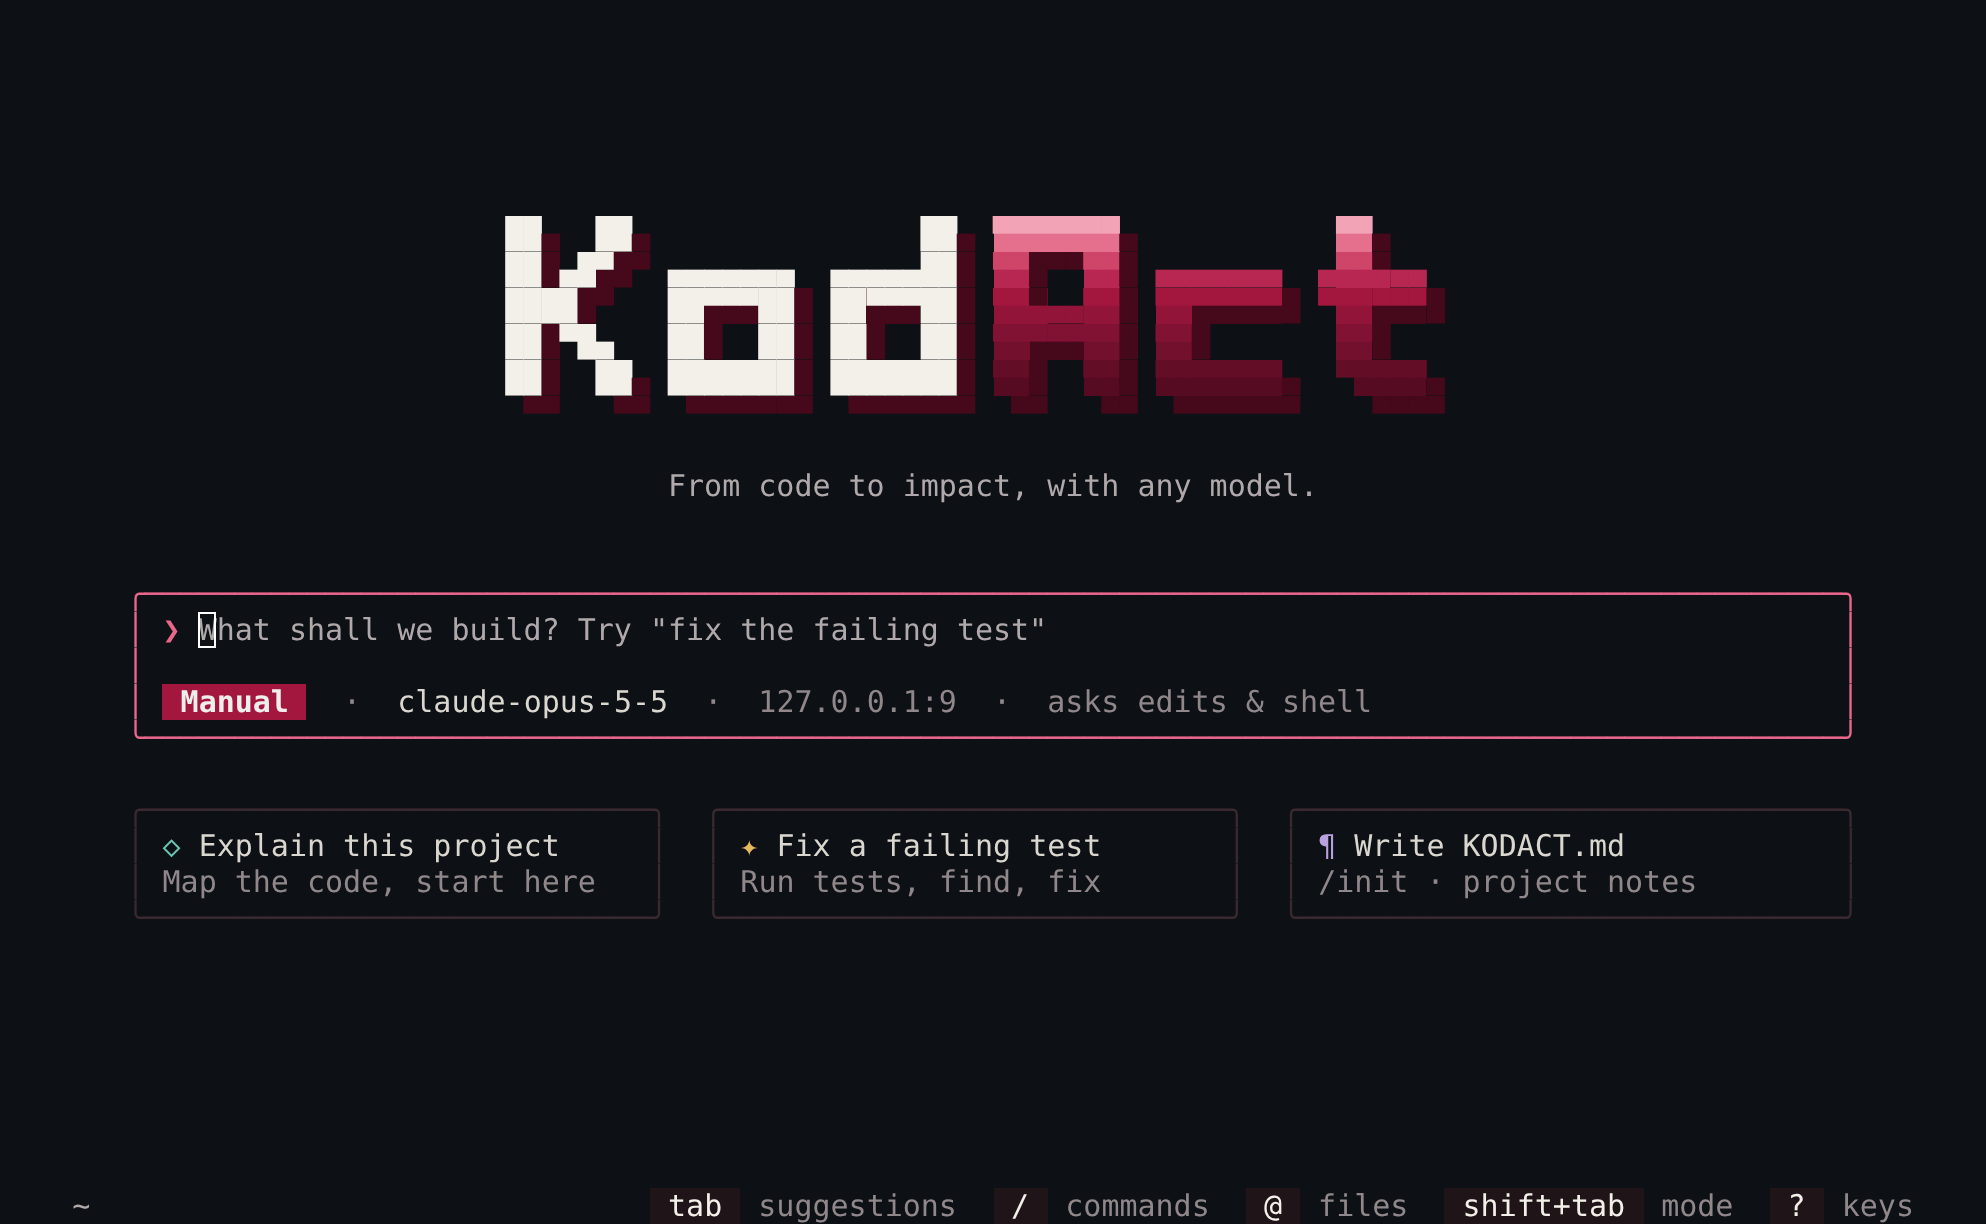
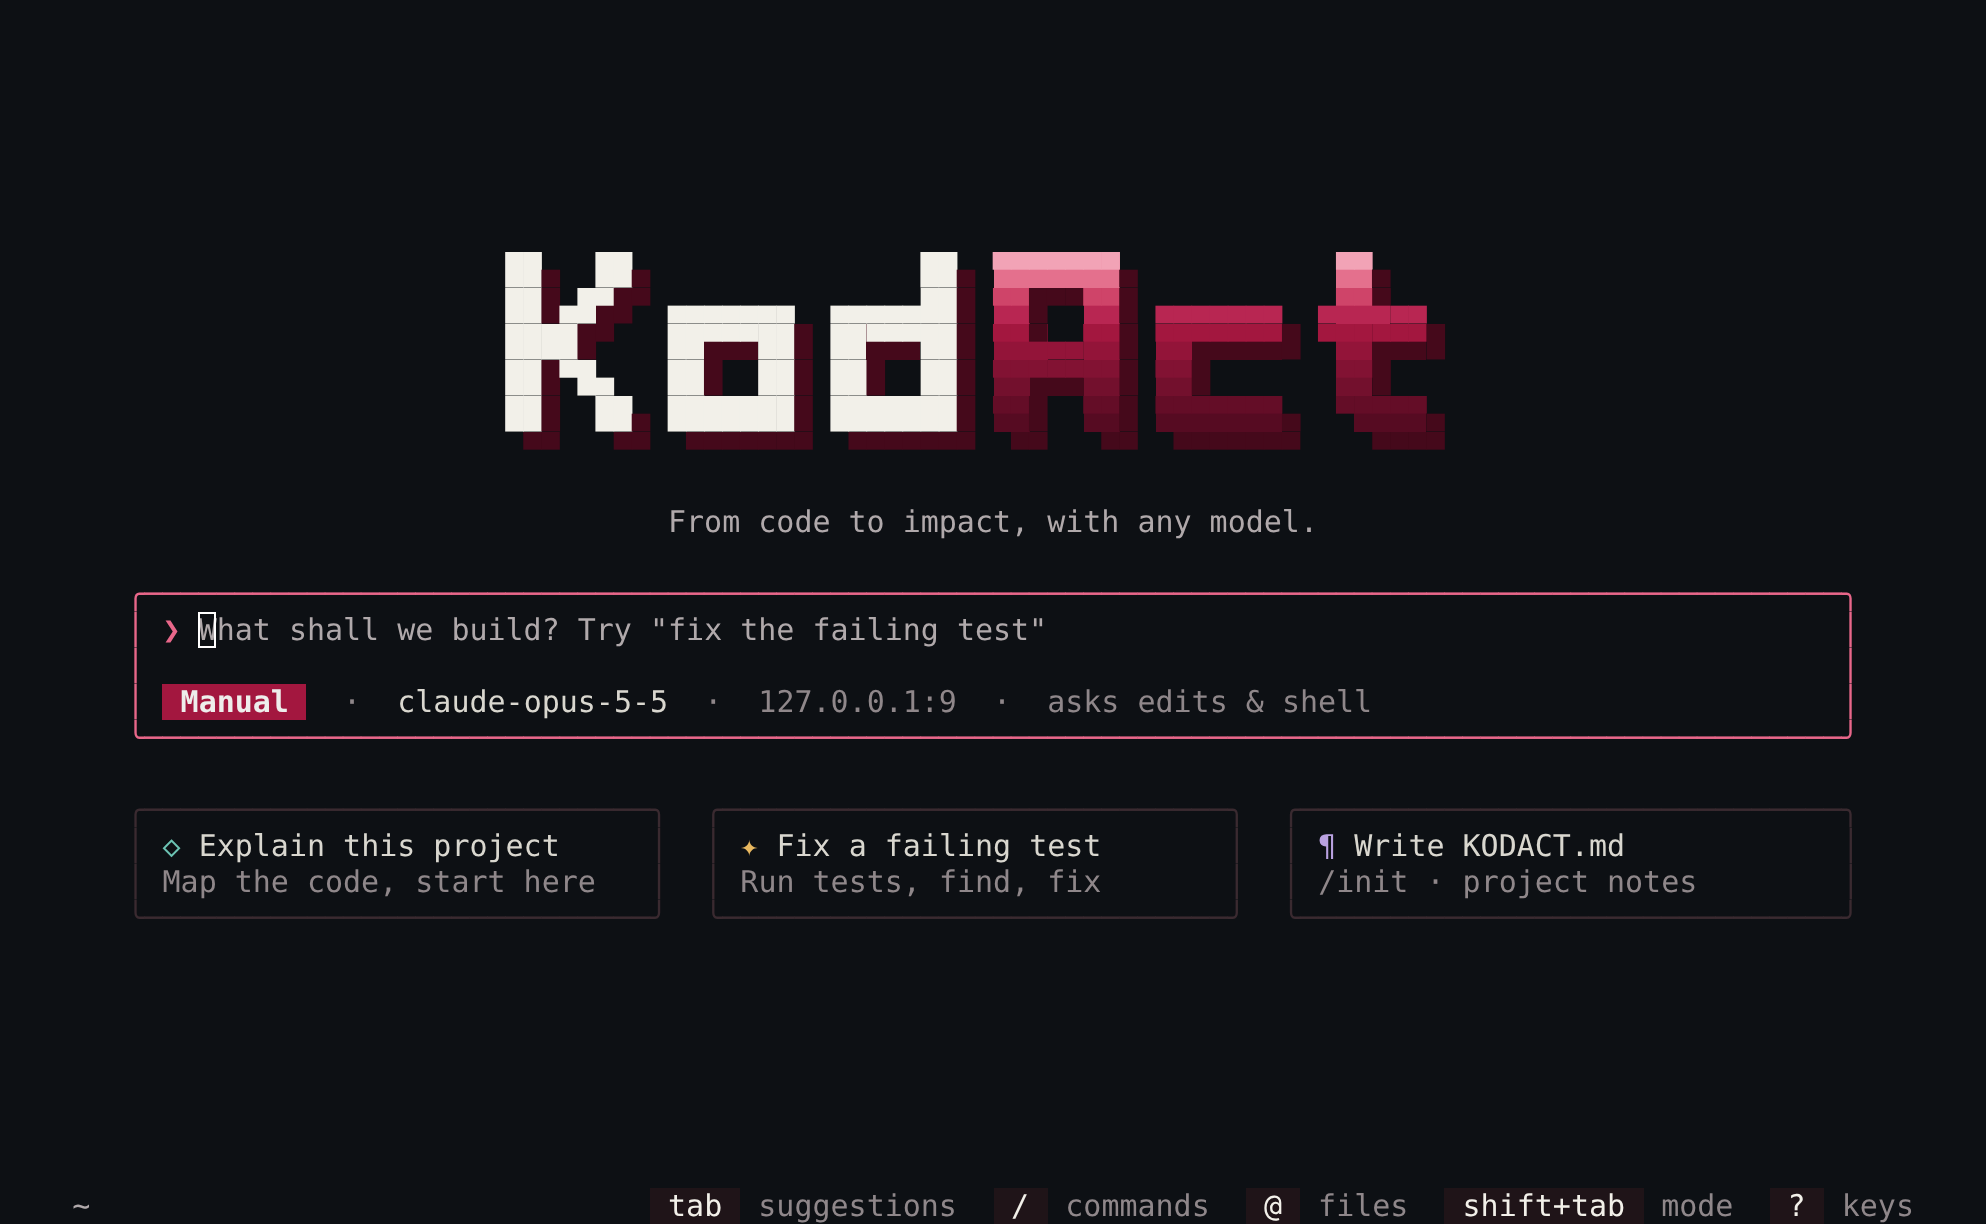
Welcome page: one row of air over the prompt box; the cards' hint on the first frame
The tagline sat two blank rows above the prompt box but the cards one row
under it, so the title read as detached from the box. Now one row each way,
and the name, the box and the cards read as one block.

The status line's "tab suggestions" hint was built before the layout decided
whether the cards fit, so it showed only from the second frame (on launch,
not until something redrew). The status line is now rebuilt when that
decision changes. Test: the first frame both draws the cards and offers
them; a screen too short for them does neither.

Goals: compatibility / none (UI); welcome page spacing and hint

Claude-Session: https://claude.ai/code/session_01XjPJN78SFVEmKsSDw2V2Fw

Changed region(s): [[0.2497, 0.1552, 0.7492, 0.4346]]

diff --git a/crates/kodact-cli/src/tui/render.rs b/crates/kodact-cli/src/tui/render.rs
@@ -405,7 +405,9 @@ pub fn full_view_at(
     now: Instant,
 ) -> (LiveView, usize) {
     let h = (height as usize).max(1);
-    app.cards_drawn.set(false);
+    // Whether the last frame drew the cards: the status line below is built with it, and built
+    // again if this frame decides otherwise, so its "tab suggestions" hint never lags a frame.
+    let cards_before = app.cards_drawn.get();
     // The front page has room for a note or two under it (a warning at start, the answer
     // to /clear). An answer longer than that takes the page's place: `?` or /status on
     // the front page showed only its last six rows, or none on a short window.
@@ -416,7 +418,8 @@ pub fn full_view_at(
         let fb = FrontBox { left: page.box_left, w: page.box_w, under: page.under };
         let live = live_view_inner(app, width, height, now, Some(fb));
         let mut input = live.lines;
-        let status = input.pop().unwrap_or_default();
+        let mut status = input.pop().unwrap_or_default();
+        app.cards_drawn.set(false);
         let room = h.saturating_sub(1);
         // Each row in `rows` starts with `TRANSCRIPT_INDENT` (2 spaces), which lines its
         // `❯` up with a boxed input's `│ ❯` when the box starts at column 0. On the front
@@ -523,10 +526,14 @@ pub fn full_view_at(
         }
         out.truncate(room);
         out.resize(room, Line::default());
+        if app.cards_drawn.get() != cards_before {
+            status = live_view_inner(app, width, height, now, Some(fb)).lines.pop().unwrap_or_default();
+        }
         out.push(status);
         let cursor = live.cursor.map(|(x, y)| (x, y + box_at as u16)).filter(|(_, y)| (*y as usize) < room);
         return (LiveView { lines: out, cursor }, 0);
     }
+    app.cards_drawn.set(false);
     let live = live_view_at(app, width, height, now);
     // The status style: a bar of the session's readouts across the top.
     let bar: Vec<Line<'static>> =
@@ -2778,6 +2785,22 @@ mod tests {
         // Degenerate narrow terminal never panics or exceeds w.
         let tiny = cornered(Line::from("Title"), vec![Line::from("Body")], 3, a.theme.accent(), a.theme.hairline());
         assert!(tiny.iter().all(|l| text_width(&text::plain(l)) <= 3));
+    }
+
+    #[test]
+    fn the_first_frame_offers_the_cards_it_draws() {
+        let mut a = app(false);
+        a.look = crate::tui::look::Look::Frame;
+        a.front = true;
+        let page = crate::tui::front::front_page(&a.theme, a.look, &Default::default(), 120);
+        // The very first frame: the cards are drawn, and the status line says how to reach them.
+        let (v, _) = full_view(&a, 120, 40, &[], &page, 0);
+        let status = draw(&v, 120).0.pop().unwrap();
+        assert!(a.cards_drawn.get() && status.contains("suggestions"), "{status}");
+        // Too short for them: neither the cards nor the hint.
+        let (v, _) = full_view(&a, 120, 16, &[], &page, 0);
+        let status = draw(&v, 120).0.pop().unwrap();
+        assert!(!a.cards_drawn.get() && !status.contains("suggestions"), "{status}");
     }
 
     #[test]

diff --git a/crates/kodact-cli/src/tui/front.rs b/crates/kodact-cli/src/tui/front.rs
@@ -471,7 +471,7 @@ fn frame(t: &Theme, info: &FrontInfo, cols: usize) -> FrontPage {
     let room = fw.saturating_sub(4);
     above.push(Line::default());
     above.push(centred(Line::from(Span::styled(SHORT_TAGLINE, t.dim())), cols));
-    above.push(Line::default());
+    // One row of air over the box, as under it: the name, the box and the cards read as one block.
     above.push(Line::default());
     let mut below = vec![Line::default()];
     below.extend(cards(t, info.card, m, fw));
